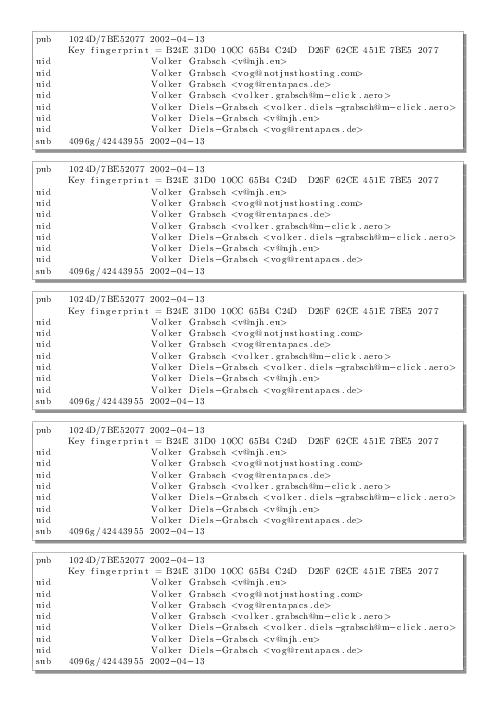
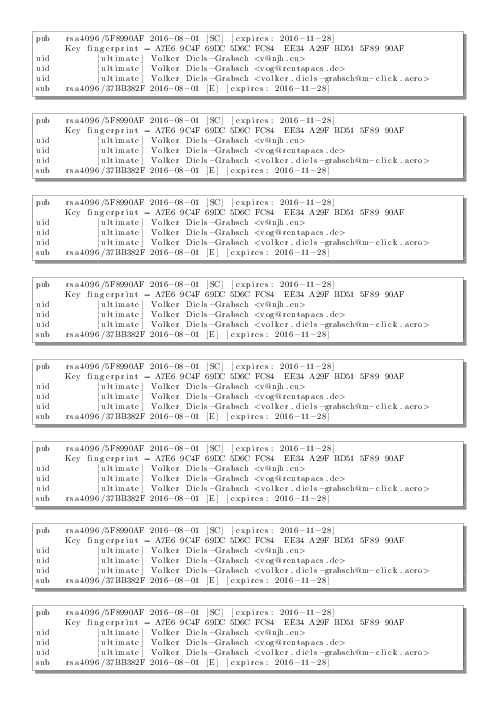
Switch to new GPG key, adjust example output

Changed region(s): [[0.0605, 0.0299, 0.9677, 0.9573], [0.8165, 0.9274, 0.8468, 0.9573]]

diff --git a/index.html b/index.html
@@ -65,7 +65,7 @@
       Then, adjust the key ID so it will print your own key rather than mine.
       Also adjust the number of repetitions to fill the page:
     </p>
-    <pre>% Key ID to print&#xa;\newcommand{\keyid}{<b>7BE52077</b>}&#xa;&#xa;% Number of repetitions&#xa;\newcommand{\repetitions}{<b>5</b>}</pre>
+    <pre>% Key ID to print&#xa;\newcommand{\keyid}{<b>5F8990AF</b>}&#xa;&#xa;% Number of repetitions&#xa;\newcommand{\repetitions}{<b>8</b>}</pre>
     <p>
       Finally, generate the PDF file:
     </p>

diff --git a/fingerprint.tex b/fingerprint.tex
@@ -1,10 +1,10 @@
 \documentclass[a4paper,12pt]{scrartcl} % 2>/dev/null || <<'\end{document}'
 
 % Key ID to print
-\newcommand{\keyid}{7BE52077}
+\newcommand{\keyid}{5F8990AF}
 
 % Number of repetitions
-\newcommand{\repetitions}{5}
+\newcommand{\repetitions}{8}
 
 % Author: Volker Diels-Grabsch <v@njh.eu>
 % This code is public domain.
